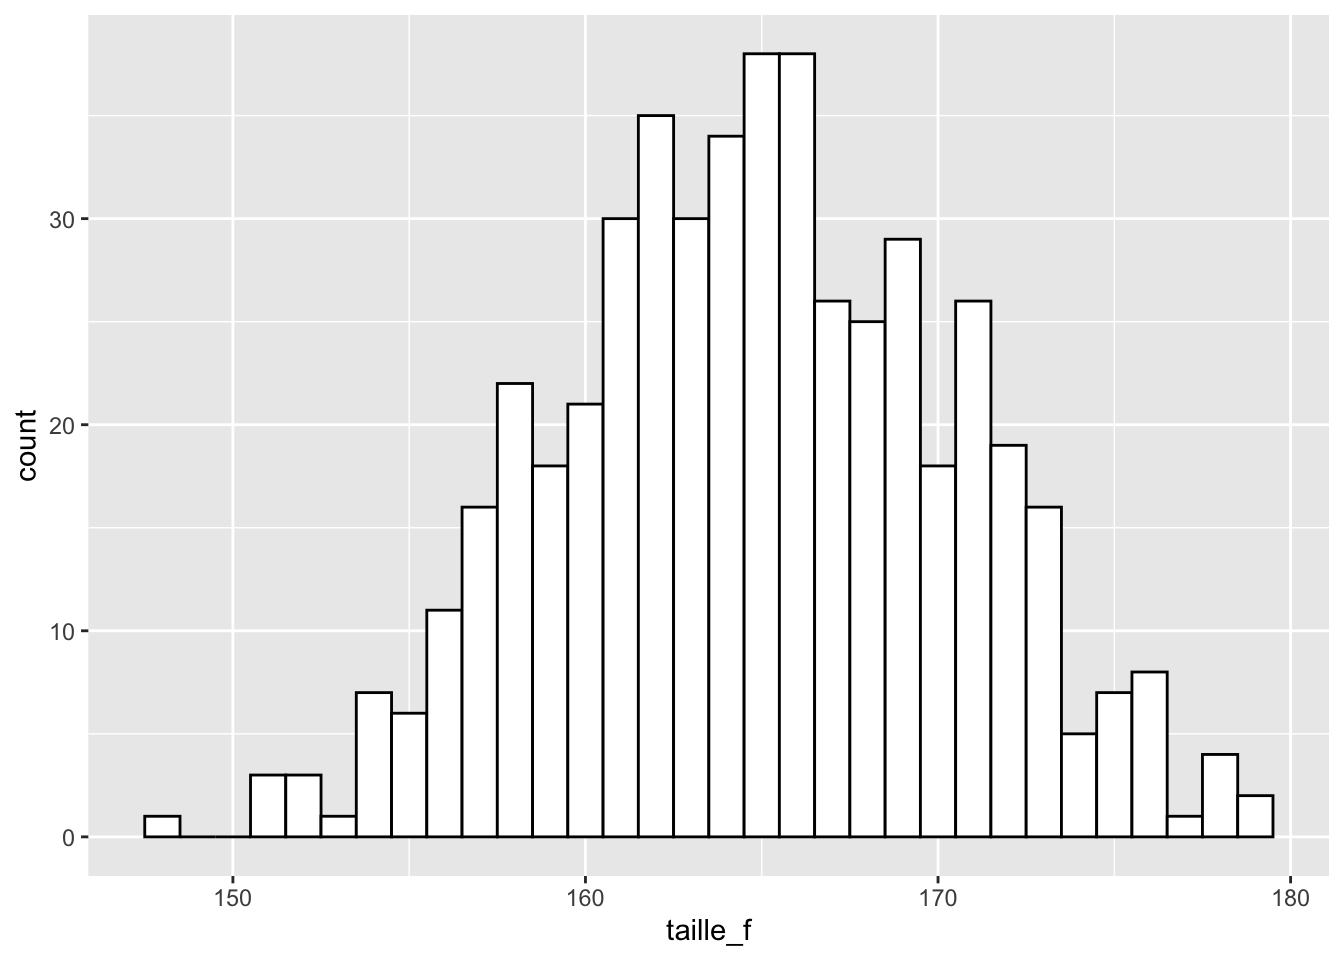
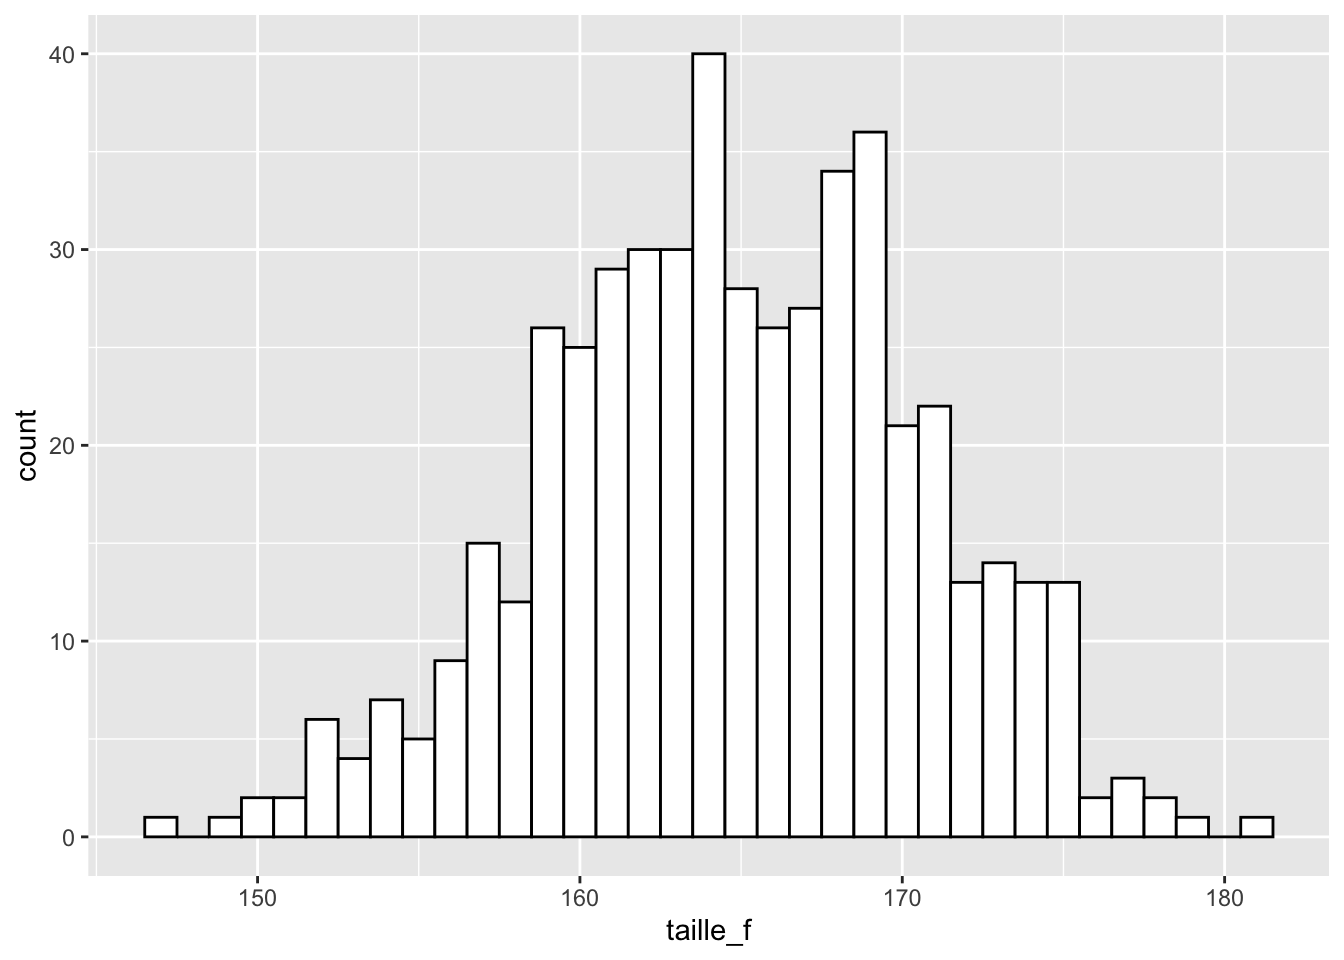
session 7 v2

diff --git a/index.html b/index.html
@@ -1727,7 +1727,7 @@ Attention
 <span id="cb100-5"><a href="#cb100-5" aria-hidden="true" tabindex="-1"></a></span>
 <span id="cb100-6"><a href="#cb100-6" aria-hidden="true" tabindex="-1"></a><span class="fu">head</span>(taille_f)</span></code><button title="Copy to Clipboard" class="code-copy-button"><i class="bi"></i></button></pre></div>
 <div class="cell-output cell-output-stdout">
-<pre><code>[1] 162.2787 160.7798 177.5195 167.0685 165.2809 174.2147</code></pre>
+<pre><code>[1] 161.3670 164.3414 159.4570 167.8825 161.1205 162.3980</code></pre>
 </div>
 <div class="sourceCode cell-code" id="cb102"><pre class="sourceCode r code-with-copy"><code class="sourceCode r"><span id="cb102-1"><a href="#cb102-1" aria-hidden="true" tabindex="-1"></a><span class="co"># stocker taille_f comme objet de type 'data.frame'</span></span>
 <span id="cb102-2"><a href="#cb102-2" aria-hidden="true" tabindex="-1"></a>taille_f <span class="ot">&lt;-</span> <span class="fu">as.data.frame</span>(taille_f)</span>
@@ -1946,8 +1946,9 @@ Astuce
 <section id="session-7" class="level1">
 <h1>Session 7</h1>
 <p><strong>Sujet : Manipuler les données (partie 1)</strong></p>
-<p>Le premier but de cette session est d’apprendre à importer des données dans RStudio à partir de fichier CSV et de les stocker en forme de data frame (format tabulaire).</p>
+<p>Le premier but de cette session est d’apprendre à importer des données dans RStudio à partir de <strong>fichier CSV</strong> et de les stocker en forme de data frame (format tabulaire).</p>
 <p>Le deuxième but est de se familiariser avec <code>dplyr</code> (prononcé “dee-ply-er” en anglais), un paquet du <code>tidyverse</code> conçu pour manipuler les données en forme de data frame.</p>
+<p>Contrairement aux jeux de données intégrés à R (tels que <code>diamonds</code>, etc.), la plupart des jeux de données du monde réel nécessitent des <strong>transformations</strong> avant de pouvoir être analysés et visualisés. À cette fin, nous examinerons également certaines transformations de types de variables et un nouvel opérateur, le <code>%&gt;%</code> (angl. “pipe”; trad. franç. “tuyau”), qui est très utile pour les manipulations de données.</p>
 <section id="lire-des-données-dans-rstudio" class="level2">
 <h2 class="anchored" data-anchor-id="lire-des-données-dans-rstudio">Lire des données dans RStudio</h2>
 <p>Par la suite, nous alons appliquer ces verbes avec un jeu de données concret, un fichier CSV nommé <code>igposts.csv</code>, qui contient des posts Instagram de célébritées qui ont reçu beaucoup d’interactions d’utilisateurs. Pour y arriver, il faut charger ce jeu de données dans notre session RStudio en cours.</p>
